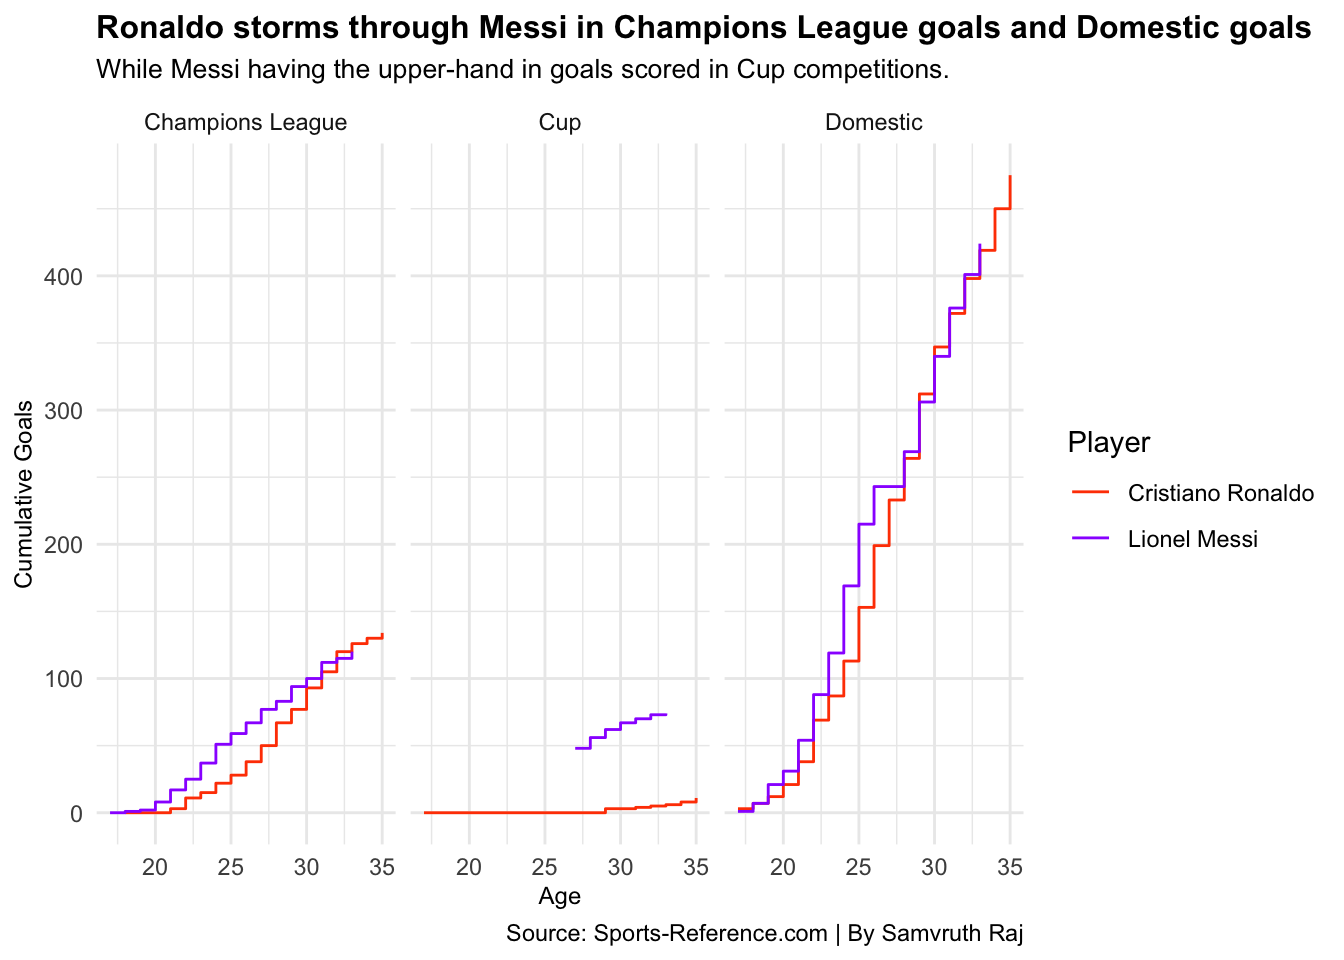
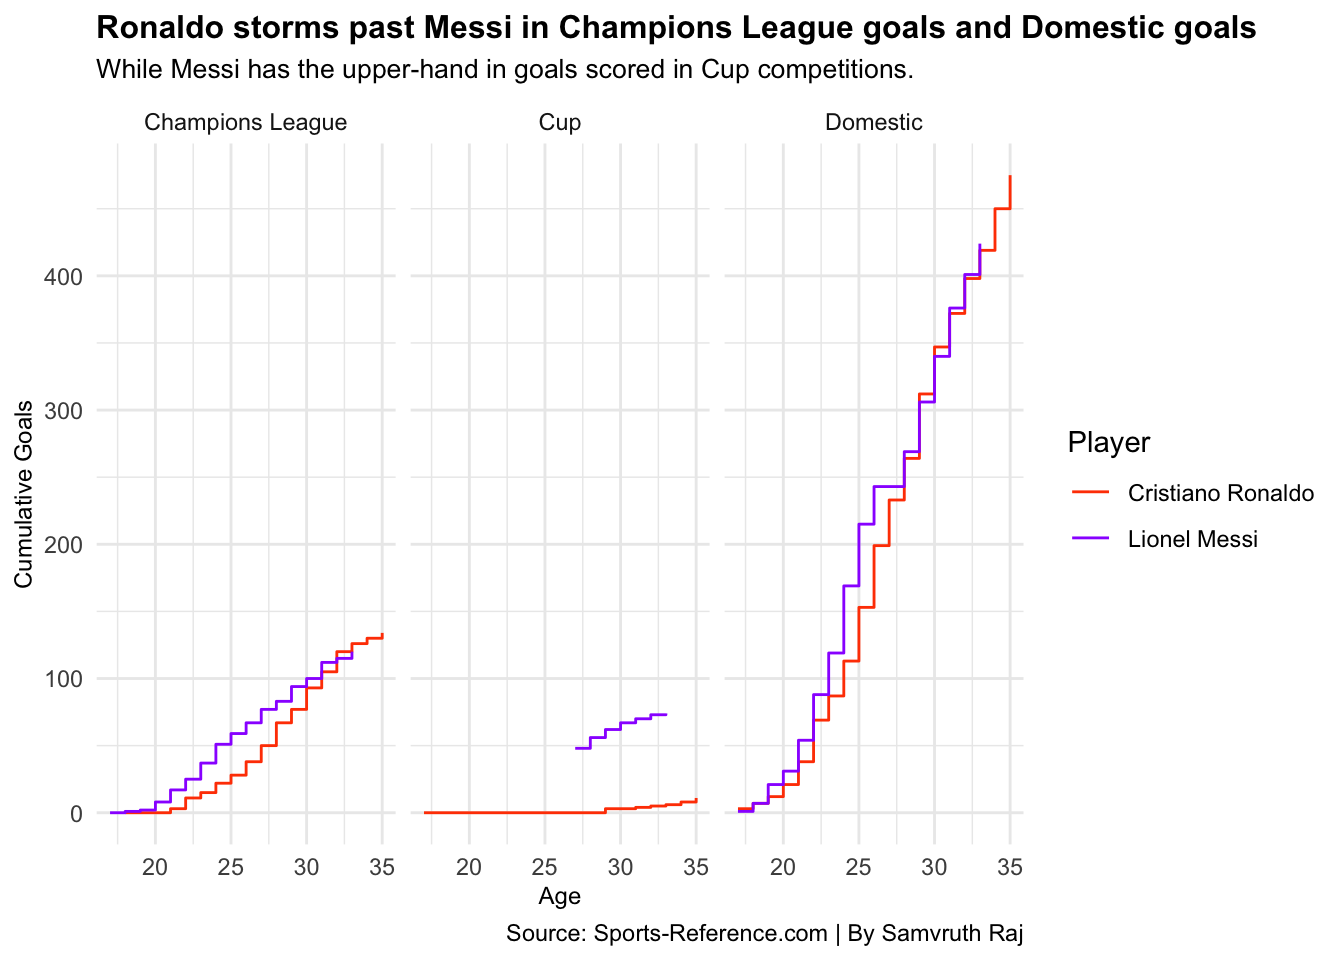
Tiny fix.

Changed region(s): [[0.1875, 0.0, 0.9688, 0.0938]]

diff --git a/2021/04/19/cristiano-ronaldo-vs-lionel-messi-greatness-personified/index.html b/2021/04/19/cristiano-ronaldo-vs-lionel-messi-greatness-personified/index.html
@@ -130,8 +130,8 @@ library(waffle)</code></pre>
   facet_wrap(.~CompType) +
   labs(x=&quot;Age&quot;, 
        y=&quot;Cumulative Goals&quot;, 
-       title=&quot;Ronaldo storms through Messi in Champions League goals and Domestic goals&quot;, 
-       subtitle=&quot;While Messi having the upper-hand in goals scored in Cup competitions.&quot;, 
+       title=&quot;Ronaldo storms past Messi in Champions League goals and Domestic goals&quot;, 
+       subtitle=&quot;While Messi has the upper-hand in goals scored in Cup competitions.&quot;, 
        caption=&quot;Source: Sports-Reference.com | By Samvruth Raj&quot;) +  
   scale_color_manual(values = c(&quot;orangered&quot;, &quot;purple1&quot;)) +
   theme_minimal() + 
